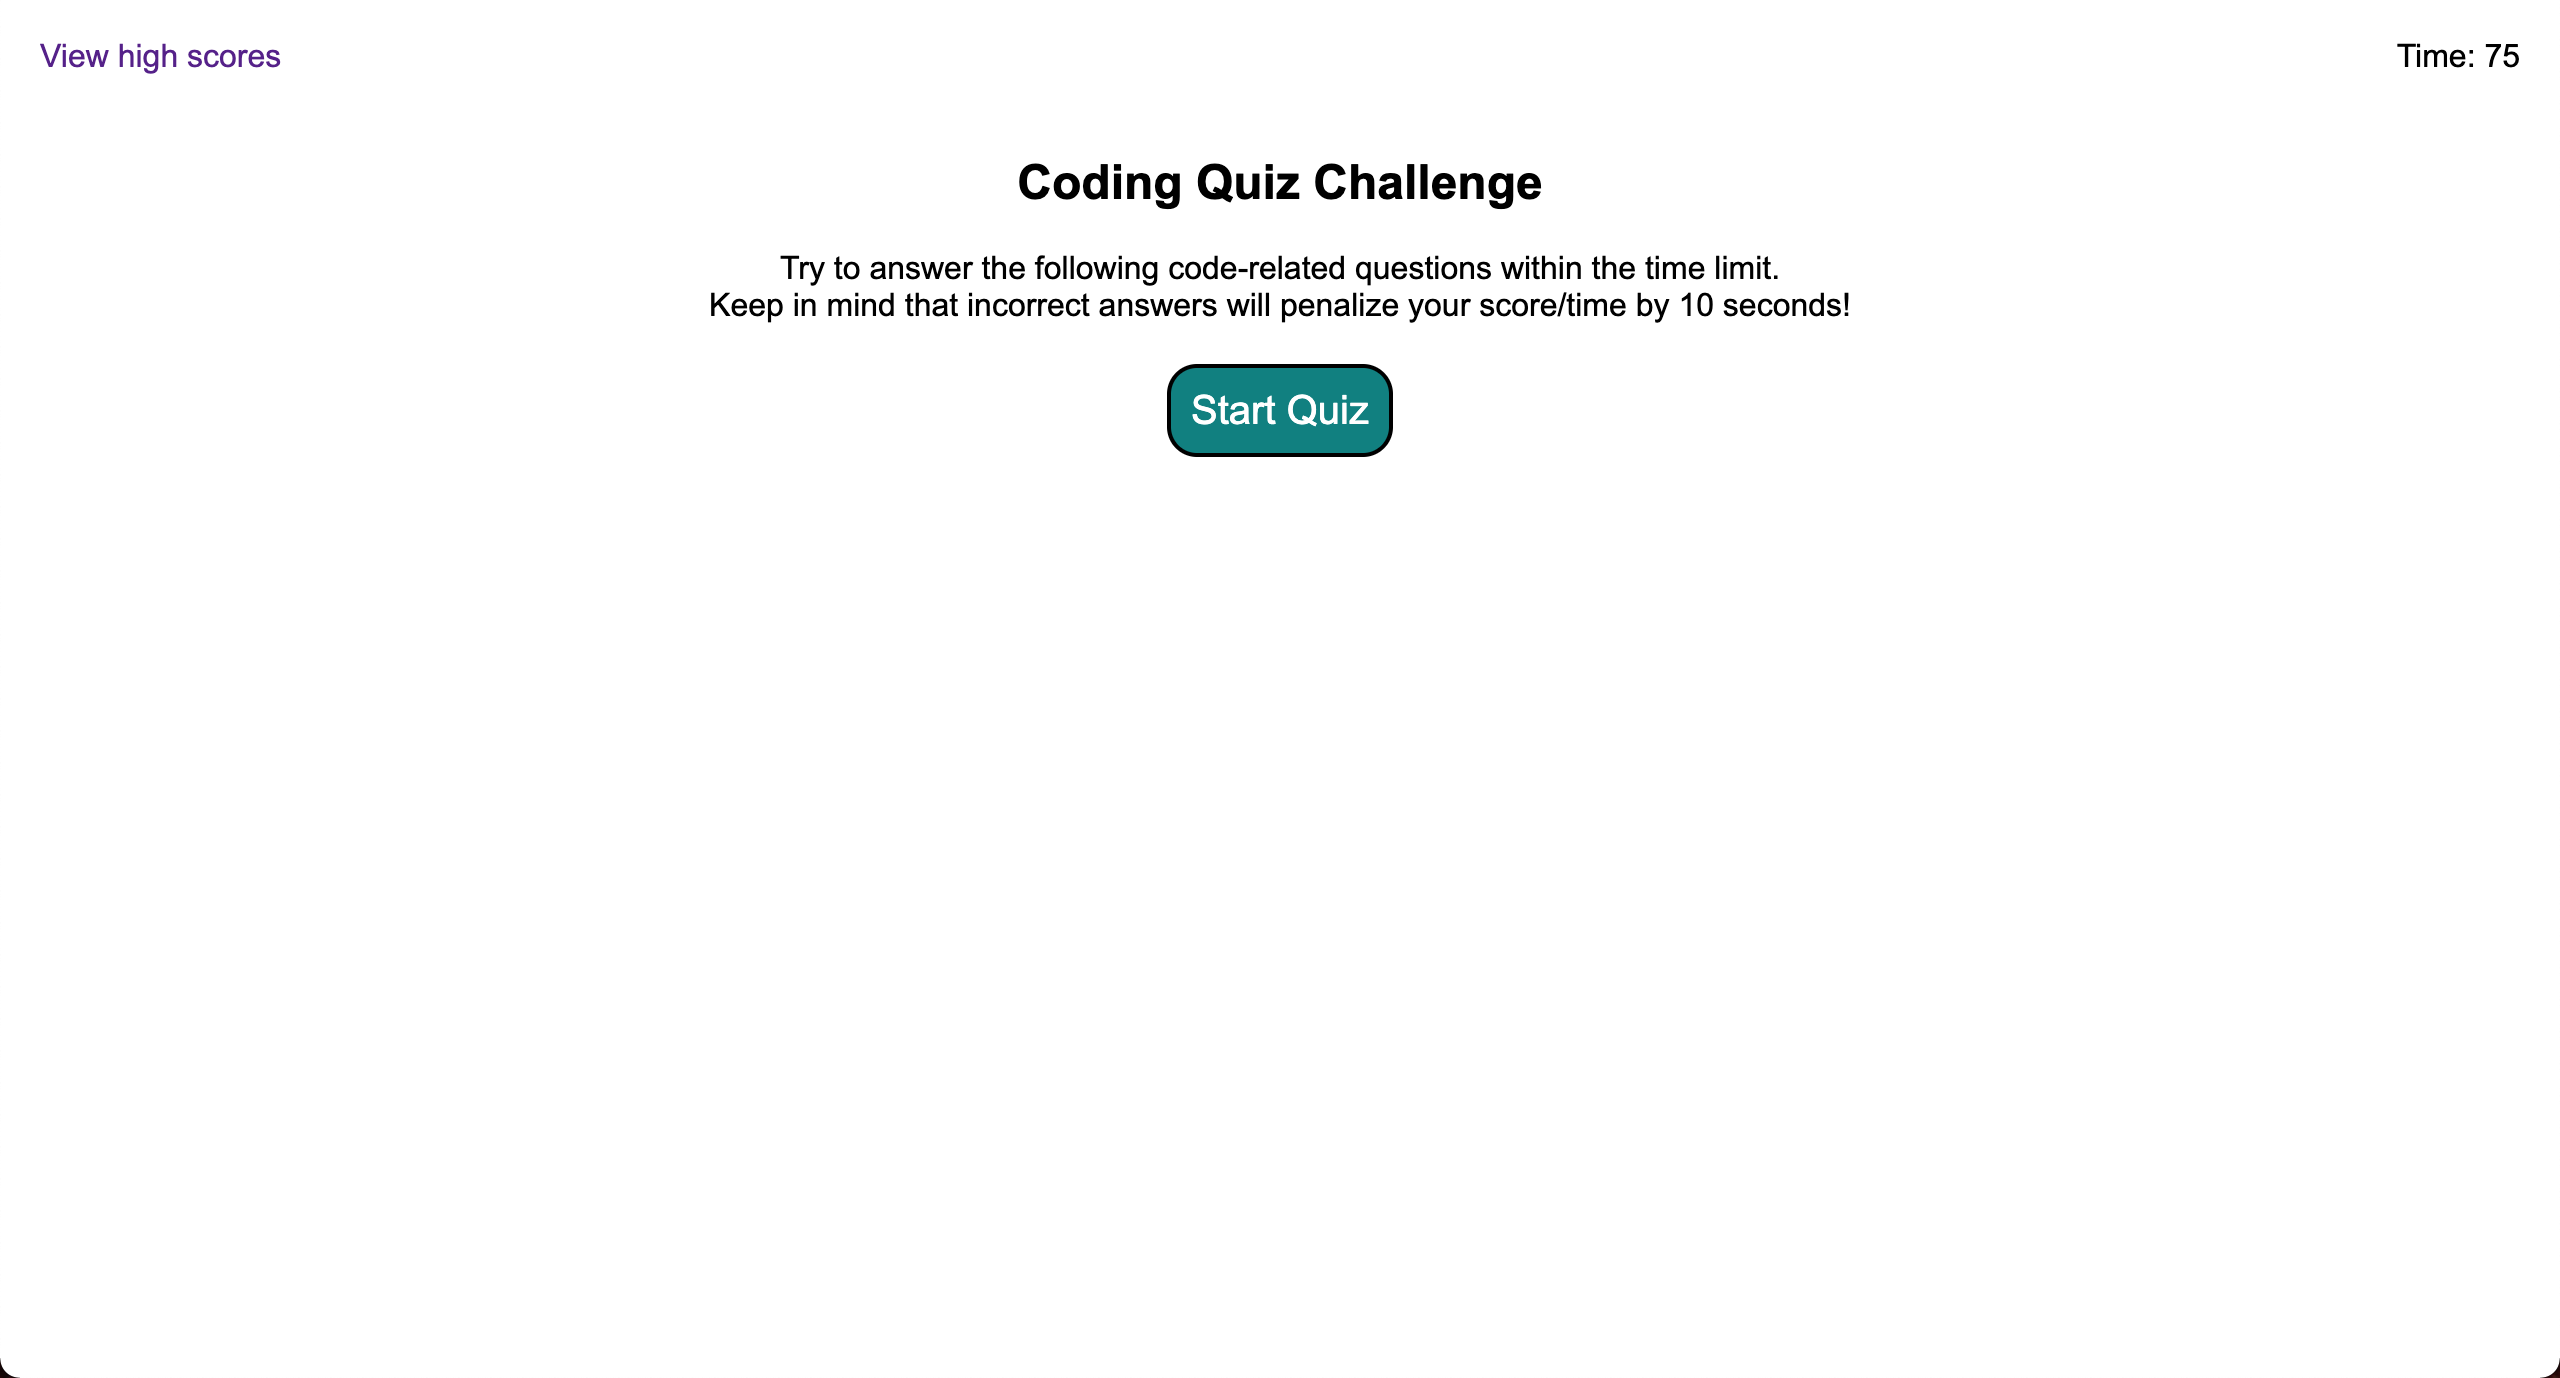
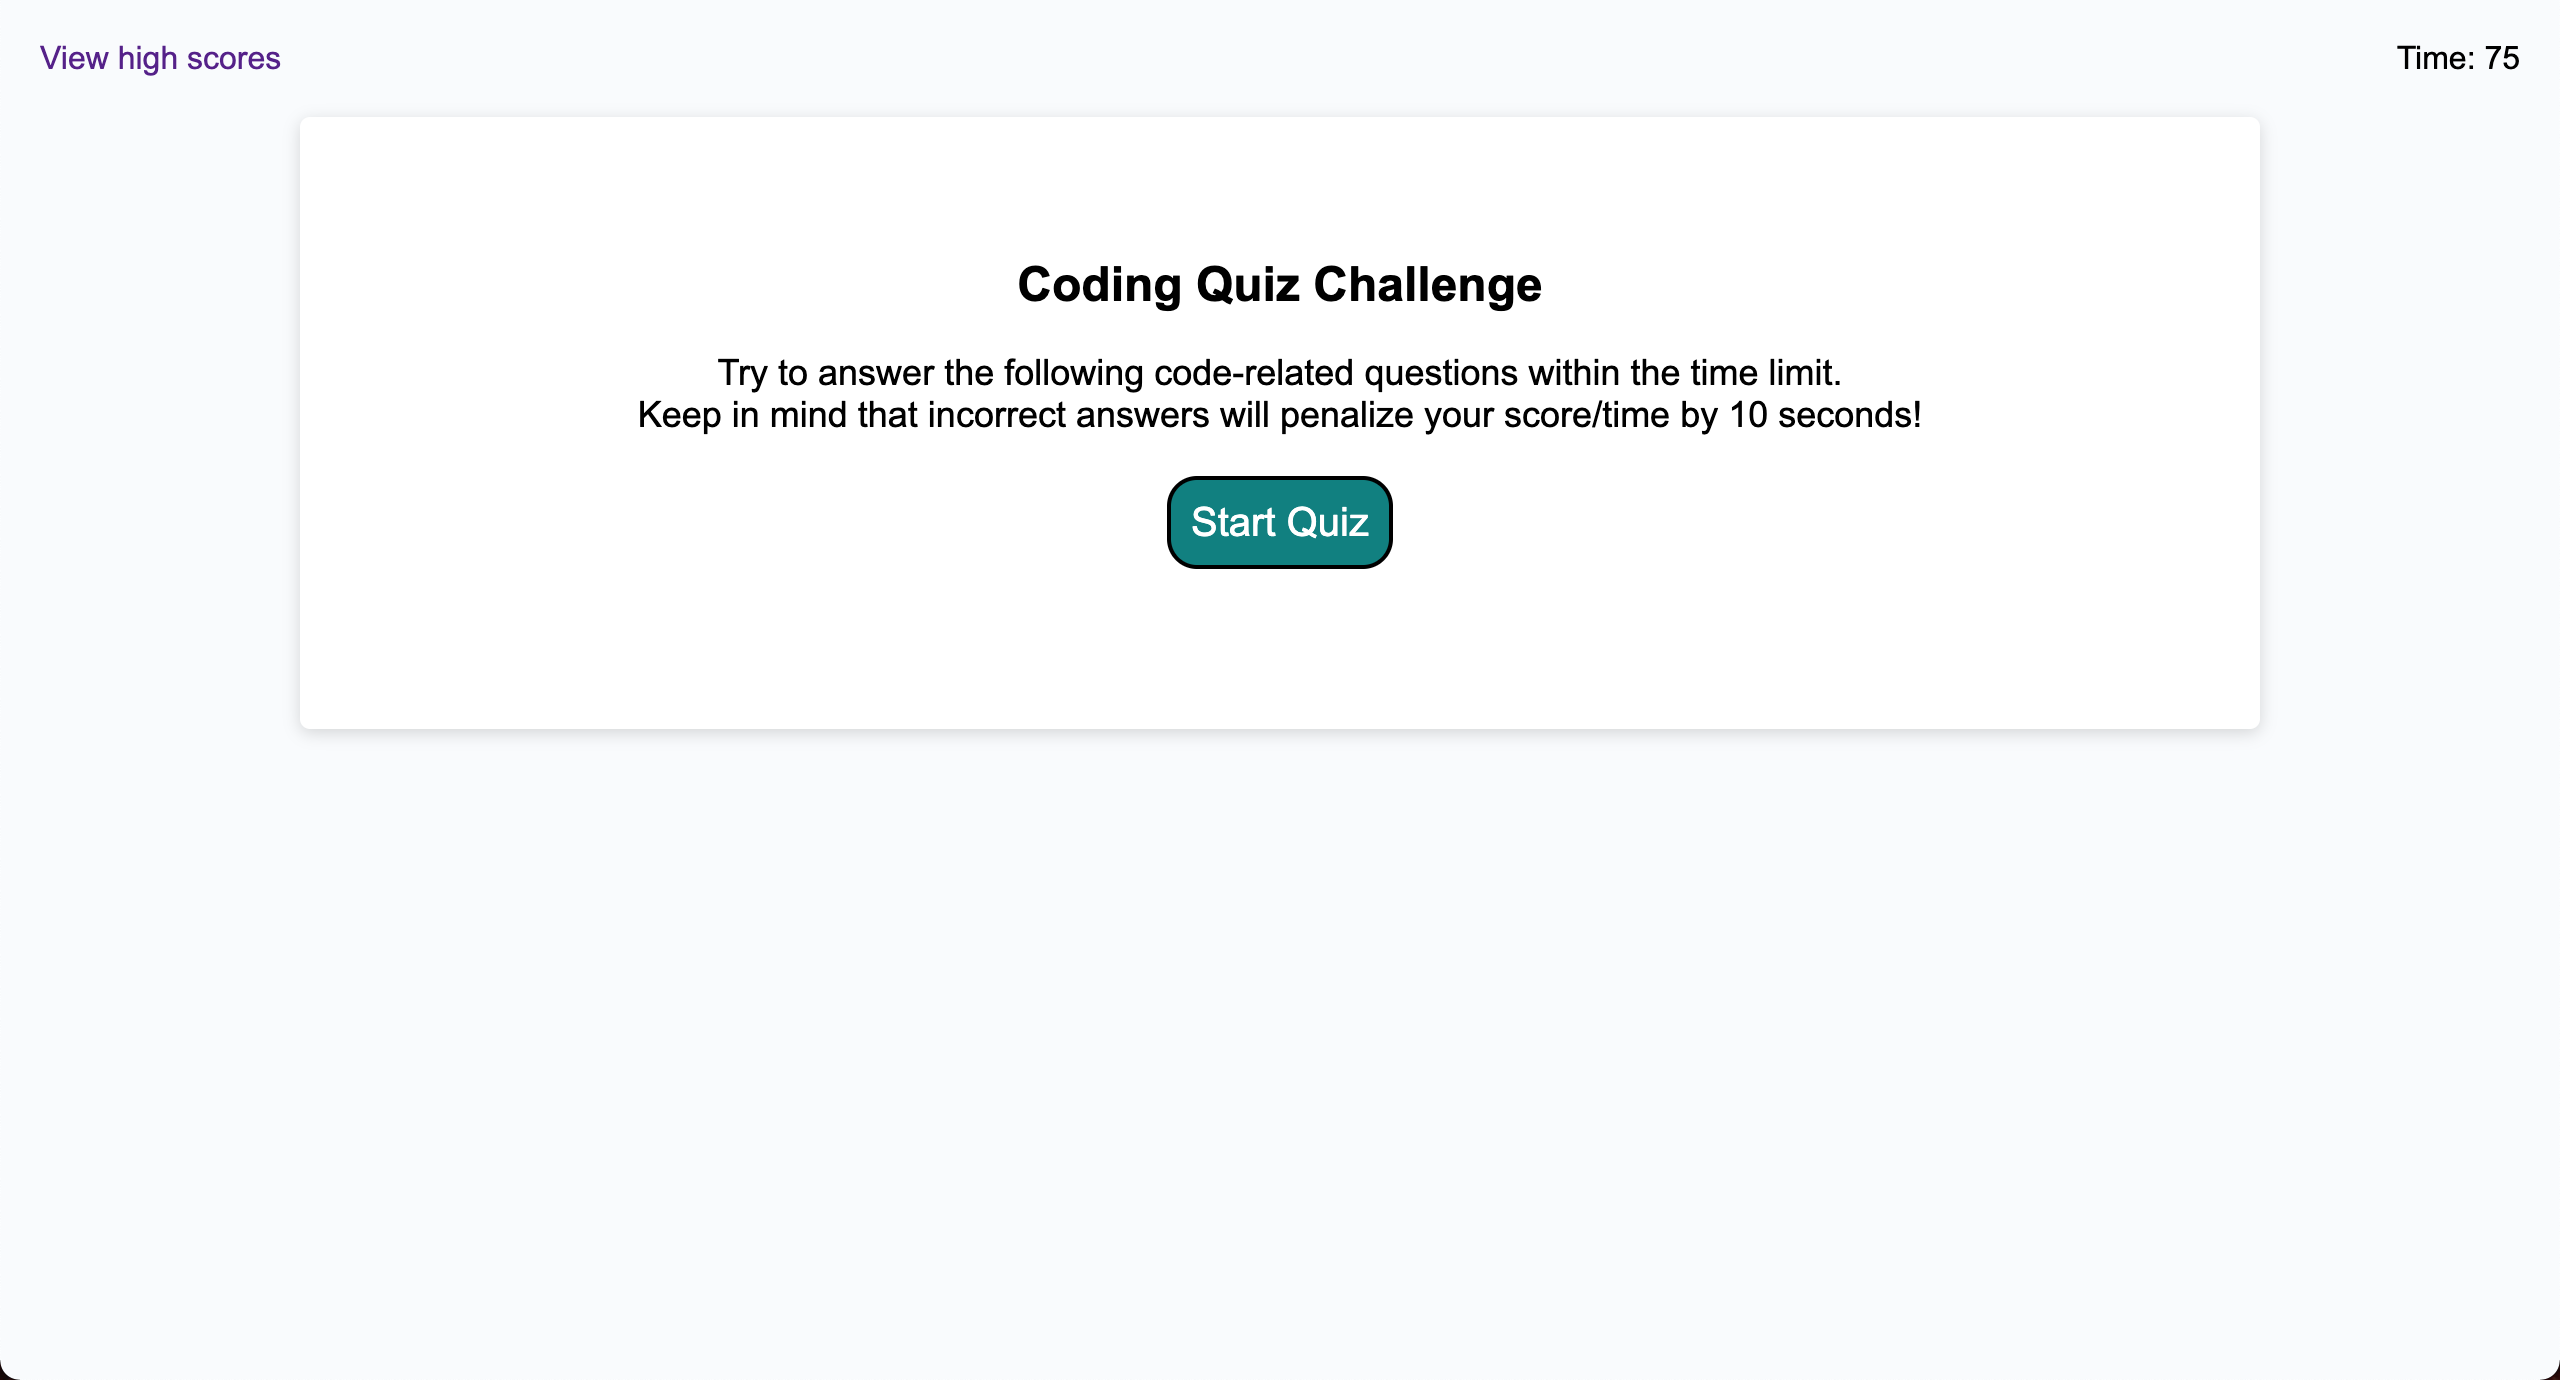
added comments to JS file, added box around main content

diff --git a/assets/js/script.js b/assets/js/script.js
@@ -75,49 +75,49 @@ function startQuiz() {
   displayQuestion();  // Display the first question
 }
 
-// Function to start timer
+// Function to start the countdown timer
 function startTimer() {
   timerInterval = setInterval(function() {
-    timerElement.textContent = 'Time: ' + timer;
-    timer--;
+    timerElement.textContent = 'Time: ' + timer;  // Update the displayed timer
+    timer--;  // Decrement the timer
     if (timer < 0) {
-      score = 0;
-      postGame();
-      clearInterval(timerInterval);
+      score = 0;  // If time is up, set the score to 0
+      postGame();  // End the game
+      clearInterval(timerInterval);  // Stop the timer
     }
   }, 1000);
 }
 
-// Function to display question
+// Function to display a question
 function displayQuestion() {
-  currentQuestion = availableQuestions[currentQuestionIndex];
-  questionsElement.innerText = currentQuestion.question;
+  currentQuestion = availableQuestions[currentQuestionIndex];  // Get the current question
+  questionsElement.innerText = currentQuestion.question;  // Display the question text
   for (var i = 0; i < currentQuestion.choices.length; i++) {
-    var button = document.createElement('button');
-    button.innerText = currentQuestion.choices[i];
-    button.setAttribute("class", "btn");
+    var button = document.createElement('button');  // Create a button for each answer choice
+    button.innerText = currentQuestion.choices[i];  // Set the button text
+    button.setAttribute("class", "btn");  // Add a CSS class
     button.addEventListener('click', function() {
-      checkAnswer(choices);
-      nextQuestions();
-    })
-    choicesElement.appendChild(button);
+      checkAnswer(choices);  // Check the selected answer
+      nextQuestions();  // Proceed to the next question
+    });
+    choicesElement.appendChild(button);  // Add the button to the choices section
   }
 }
 
-// Function to check answer
+// Function to check the answer
 function checkAnswer() {
-  var selected = event.target.innerText;
-  answerElement.innerHTML = '';
-  var resultElement = document.createElement('h4');
+  var selected = event.target.innerText;  // Get the selected answer
+  answerElement.innerHTML = '';  // Clear the answer display
+  var resultElement = document.createElement('h4');  // Create an element to display the result
   if (selected === currentQuestion.answer) {
-    resultElement.innerText = "Correct!";
-    resultElement.style.color = "Limegreen";
+    resultElement.innerText = "Correct!";  // If the answer is correct
+    resultElement.style.color = "Limegreen";  // Set text color to green
   } else {
-    resultElement.innerText = "Wrong!";
-    resultElement.style.color = "Red";
-    timer -= 10;
+    resultElement.innerText = "Wrong!";  // If the answer is wrong
+    resultElement.style.color = "Red";  // Set text color to red
+    timer -= 10;  // Subtract 10 seconds from the timer
   }
-  answerElement.appendChild(resultElement);
+  answerElement.appendChild(resultElement);  // Display the result
 }
 
 // Function to display the next question

diff --git a/index.html b/index.html
@@ -11,43 +11,44 @@
     <a href="#high-scores" id="view-high-scores">View high scores</a>
     <h1 id="timer">Time: 75</h1>
   </header>
-
-  <!-- Pre game section -->
-  <section id="pre-game">
-    <h2> Coding Quiz Challenge</h2>
-    <p>Try to answer the following code-related questions within the time limit.<br/>
-      Keep in mind that incorrect answers will penalize your score/time by 10 seconds!
-    </p>
-    <button id="start-button" class="btn">Start Quiz</button>
-  </section>
-
-  <!-- Quiz content section -->
-  <section id="the-game">
-    <section id="quiz-content" hidden>
-      <section id="questions"></section>
-      <section id="choices" class="btn-layout"></section>
-      <section id="answer"></section>
+  <main>
+    <!-- Pre game section -->
+    <section id="pre-game">
+      <h2> Coding Quiz Challenge</h2>
+      <p>Try to answer the following code-related questions within the time limit.<br/>
+        Keep in mind that incorrect answers will penalize your score/time by 10 seconds!
+      </p>
+      <button id="start-button" class="btn">Start Quiz</button>
     </section>
 
-    <!-- Post game section -->
-    <section id="post-game" hidden>
-      <h3>All done!</h3>
-      <p>Your final score is <span id="score"></span></p>
-      <label>Enter initials: </label>
-      <input type="initials" name="initials" id="initials" placeholder=""/>
-      <button id="submit" class="btn">Submit</button>
-    </section>
+    <!-- Quiz content section -->
+    <section id="the-game">
+      <section id="quiz-content" hidden>
+        <section id="questions"></section>
+        <section id="choices" class="btn-layout"></section>
+        <section id="answer"></section>
+      </section>
 
-    <!-- Quiz score section -->
-    <section id="scores" hidden>
-      <h3> High Scores </h3>
-      <p id="no-score" hidden>No scores saved!</p>
-      <ol id="score-list"></ol>
-      <button id="back-btn" class="btn">Go Back</button>
-      <button id="clear-btn" class="btn">Clear High Scores</button>
-    </section>
+      <!-- Post game section -->
+      <section id="post-game" hidden>
+        <h3>All done!</h3>
+        <p>Your final score is <span id="score"></span></p>
+        <label>Enter initials: </label>
+        <input type="initials" name="initials" id="initials" placeholder=""/>
+        <button id="submit" class="btn">Submit</button>
+      </section>
 
-  </section>
+      <!-- Quiz score section -->
+      <section id="scores" hidden>
+        <h3> High Scores </h3>
+        <p id="no-score" hidden>No scores saved!</p>
+        <ol id="score-list"></ol>
+        <button id="back-btn" class="btn">Go Back</button>
+        <button id="clear-btn" class="btn">Clear High Scores</button>
+      </section>
+
+    </section>
+  </main>
   <script src="./assets/js/script.js"></script>
 </body>
 </html>

diff --git a/assets/css/style.css b/assets/css/style.css
@@ -5,6 +5,21 @@
   padding: 0;
 }
 
+body {
+  background-color: #f9fbfd;
+}
+
+main {
+  background-color: hsl(0, 0%, 100%);
+  border-radius: 5px;
+  border-width: 1px;
+  box-shadow: rgba(0, 0, 0, 0.15) 0px 2px 8px 0px;
+  
+  margin: 0 auto;
+  max-width: 900px;
+  padding: 30px 40px;
+}
+
 /* Header section */
 header {
   display: flex;
@@ -32,11 +47,12 @@ header h1 {
   text-align: center;
 }
 
-#pre-game h2 {
-  padding-top: 20px;
-}
+ #pre-game h2 {
+  padding-top: 40px;
+} 
 
 #pre-game p {
+  font-size: 18px;
   padding: 20px 0;
 }
 
@@ -66,7 +82,7 @@ header h1 {
 /* The game section */
 #the-game {
   display: grid;
-  grid-template-columns: .5fr;
+  grid-template-columns: .75fr;
   justify-content: center;
   margin: 5px;
   padding: 20px;
